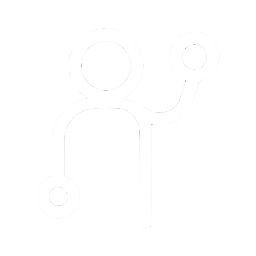
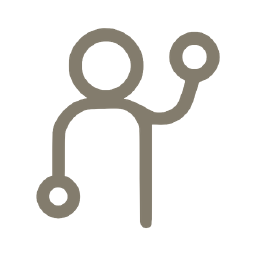
fix(mobile): recede the mark and stop spending green as a bar
The filled accent pill was still the loudest thing on the login and the
session list (D1). Both are now surface + edge, matching the TUI's rule
that the one green is the live indicator and the focus ring, not a
highway of fill.

The mark is tinted to TUI dim (#837c6d) in the PNG itself so it recedes
without an opacity fade that composited cooler and brighter than rest
(D2). The list/session column is capped at max-w-md so a desktop-width
canvas cannot stretch the chrome (D3). Wordmark tracking is 0.18em on
both surfaces.

Changed region(s): [[0.125, 0.0938, 0.875, 0.9062]]

diff --git a/local_operator/mobile/web/src/screens/session-list.tsx b/local_operator/mobile/web/src/screens/session-list.tsx
@@ -152,14 +152,13 @@ export function SessionListScreen() {
 	}, []);
 
 	return (
-		<div className="flex min-h-full flex-col">
+		<div className="mx-auto flex min-h-full w-full max-w-md flex-col">
 			<header className="flex items-center gap-3 px-4 pt-[max(env(safe-area-inset-top),1.25rem)] pb-4">
 				<img
 					src="/mark.png"
 					alt=""
 					width={28}
 					height={28}
-					className="opacity-70"
 				/>
 				<h1 className="text-meta font-medium tracking-[0.18em] text-ink">
 					local operator
@@ -189,7 +188,7 @@ export function SessionListScreen() {
 				<button
 					type="button"
 					onClick={() => navigate("/new")}
-					className="flex min-h-11 flex-1 items-center justify-center rounded-md bg-accent text-body-sm font-medium text-on-accent select-none active:bg-accent-active"
+					className="flex min-h-11 flex-1 items-center justify-center rounded-md border border-control bg-surface text-body-sm font-medium text-ink select-none active:bg-elevated"
 				>
 					new session
 				</button>

diff --git a/local_operator/mobile/web/src/screens/session-view.tsx b/local_operator/mobile/web/src/screens/session-view.tsx
@@ -88,7 +88,7 @@ export function SessionScreen({ pid }: { pid: number }) {
 		return (
 			<div
 				ref={rootRef}
-				className="flex h-dvh flex-col overflow-hidden"
+				className="mx-auto flex h-dvh w-full max-w-md flex-col overflow-hidden"
 			>
 				<header className="flex items-center gap-2 border-b border-hairline px-2 py-2 pt-[max(env(safe-area-inset-top),0.5rem)]">
 					<button
@@ -114,7 +114,7 @@ export function SessionScreen({ pid }: { pid: number }) {
 	return (
 		<div
 			ref={rootRef}
-			className="flex h-dvh flex-col overflow-hidden"
+			className="mx-auto flex h-dvh w-full max-w-md flex-col overflow-hidden"
 		>
 			<Header projection={projection} />
 

diff --git a/local_operator/mobile/web/src/screens/past-sessions.tsx b/local_operator/mobile/web/src/screens/past-sessions.tsx
@@ -31,7 +31,7 @@ export function PastSessionsScreen() {
 	};
 
 	return (
-		<div className="flex min-h-full flex-col">
+		<div className="mx-auto flex min-h-full w-full max-w-md flex-col">
 			<header className="flex items-center gap-2 px-2 pt-[max(env(safe-area-inset-top),0.75rem)] pb-3">
 				<button
 					type="button"

diff --git a/local_operator/mobile/web/src/screens/new-session.tsx b/local_operator/mobile/web/src/screens/new-session.tsx
@@ -67,7 +67,7 @@ export function NewSessionScreen() {
 	};
 
 	return (
-		<div className="flex min-h-full flex-col">
+		<div className="mx-auto flex min-h-full w-full max-w-md flex-col">
 			<header className="flex items-center gap-2 px-2 pt-[max(env(safe-area-inset-top),0.75rem)] pb-3">
 				<button
 					type="button"

diff --git a/local_operator/mobile/daemon.py b/local_operator/mobile/daemon.py
@@ -860,15 +860,15 @@ _LOGIN_HTML = """<!doctype html>
     width: 72px;
     height: 72px;
     display: block;
-    /* The source PNG is white-on-transparent; dim it to the TUI mark's
-       resting ink so a boot frame is not a wall of bright white. */
-    opacity: 0.72;
+    /* The PNG is already tinted to TUI dim (#837c6d); do not fade it
+       further — opacity on a white glyph is what made it read cooler
+       and brighter than the TUI rest colour. */
   }
   h1 {
     margin: 20px 0 0;
     font-size: 13px;
     font-weight: 500;
-    letter-spacing: 0.22em;
+    letter-spacing: 0.18em;
     text-transform: lowercase;
     color: #e9e5db;                                /* fg — the brightest row */
     text-align: center;
@@ -898,21 +898,21 @@ _LOGIN_HTML = """<!doctype html>
     border-color: transparent;
   }
   button {
-    margin-top: 16px;
+    margin-top: 20px;
     font-size: 15px;
     font-weight: 500;
     letter-spacing: 0.01em;
     padding: 14px 16px;
     min-height: 48px;
-    border: 0;
+    border: 1px solid #3b3527;                     /* edge — not a filled bar */
     border-radius: 10px;
-    background: #38c96a;                           /* accent */
-    color: #14110c;                                /* on-accent = island ground */
+    background: #1e1a14;                           /* surface */
+    color: #e9e5db;                                /* fg */
     cursor: pointer;
     -webkit-appearance: none;
     appearance: none;
   }
-  button:active { background: #2fb05c; }           /* a step down, not opacity */
+  button:active { background: #272219; }           /* raised */
   .error {
     color: #ef8078;                                /* danger */
     text-align: center;
